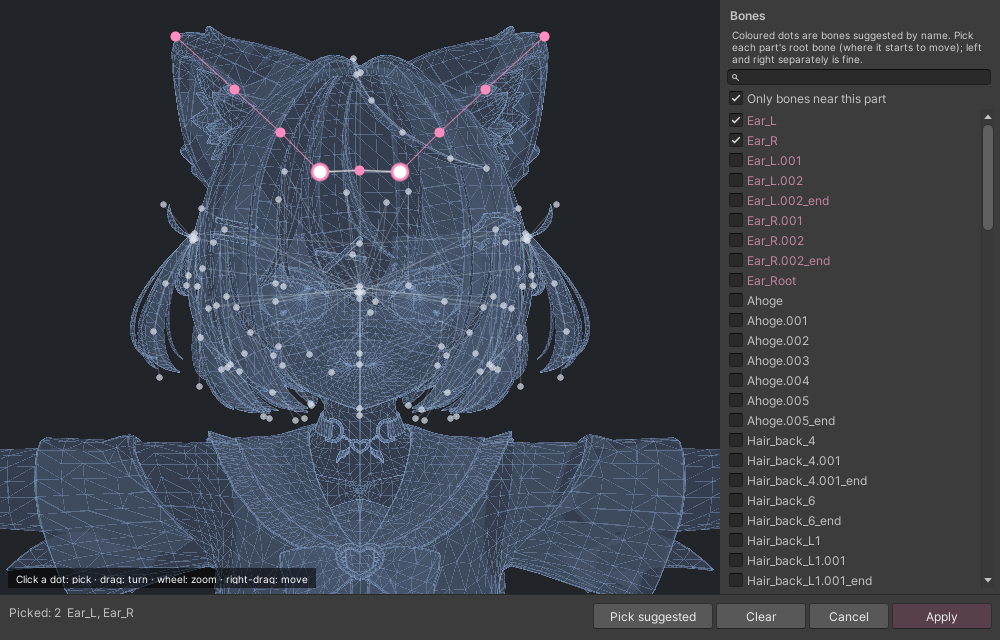
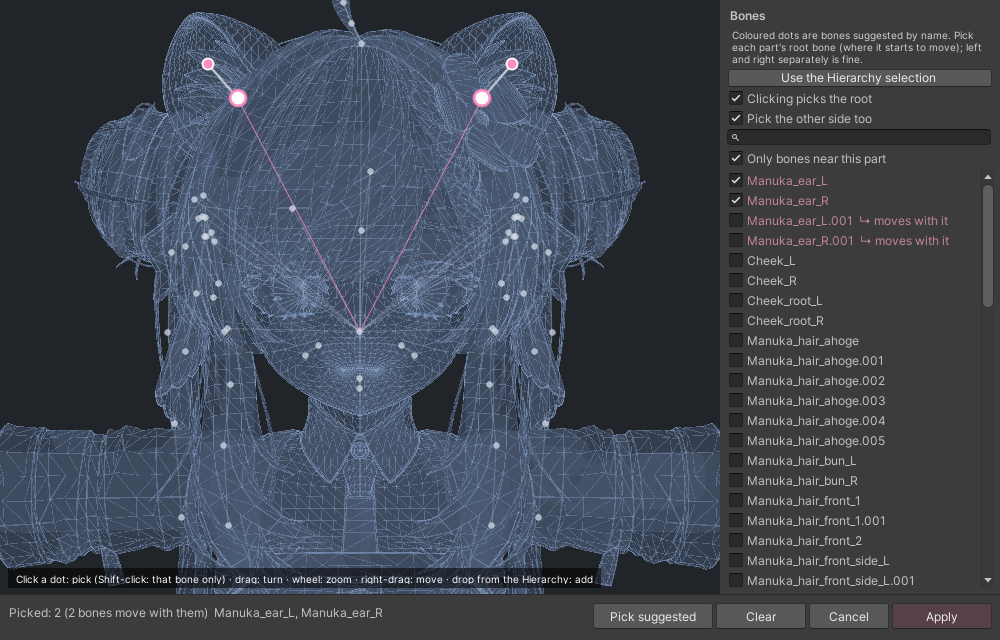
Easy Ikiiki manual: captures and text for v1.1-v1.4 features

diff --git a/easy-ikiiki/manual/index.html b/easy-ikiiki/manual/index.html
@@ -329,7 +329,7 @@
 <section id="ja-parts">
   <h2>パーツ</h2>
   <p>インスペクターの上にパーツのカードが並んでいます。<b>からだ（呼吸）</b>と<b>メニュー</b>は最初から入っていて、ほかのパーツはカードの <span class="ui">追加</span> で入れ、<span class="ui">外す</span> で外します。カードを押すと、その下にそのパーツの設定が表示されます。</p>
-  <figure><div class="shot"><img src="img/inspector_ja.png" alt="Easy Ikiiki のインスペクター" width="639" height="856" loading="lazy"></div><figcaption>パーツのカードと「目」の設定。パーツごとに色が分かれています。</figcaption></figure>
+  <figure><div class="shot"><img src="img/inspector_ja.png" alt="Easy Ikiiki のインスペクター" width="560" height="894" loading="lazy"></div><figcaption>パーツのカードと「目」の設定。パーツごとに色が分かれ、「メニュー」カードには導入済みのモジュール（ここでは「心拍」）のランプが付きます。</figcaption></figure>
   <p>カードの左下には、アバターで見つかったもの（<span class="ui">ボーン 2 個</span>、<span class="ui">シェイプあり</span> など）が表示されます。見つからないパーツも追加でき、あとで <span class="ui">ボーンを認識</span> や <span class="ui">ボーンを見ながら選ぶ</span> で指定できます。</p>
 </section>
 
@@ -342,6 +342,7 @@
     <li><span class="ui">1回の呼吸の長さ (秒)</span> と <span class="ui">速さのゆらぎ (%)</span>：呼吸の速さと、そのばらつき。</li>
     <li><span class="ui">標準の待機モーションを止める</span>（標準でオン）：Additive レイヤーを設定していないアバターは、ゲーム内で VRChat 標準の待機モーションで腕や胸が揺れます（Gesture Manager では見えません）。オンにすると、この揺れを止めて呼吸だけを残します。</li>
   </ul>
+  <figure><div class="shot"><img src="img/body_ja.png" alt="呼吸の設定" width="560" height="241" loading="lazy"></div><figcaption>「からだ」タブの呼吸の設定。<span class="ui">一緒に動く</span> に、胸と一緒に動くボーンが表示されます。</figcaption></figure>
   <h3>動くボーンを見ながら選ぶ</h3>
   <p>呼吸の設定にある <span class="ui">動くボーンを見ながら選ぶ</span> を押すと、呼吸で動くところがアバターの上にミント色で表示されます（色が濃いほど大きく動きます）。右の一覧には、胸に付いたボーン（胸・翼・飾りなど）と、動くメッシュが並びます。</p>
   <p>チェックを外すか点を押すと、そのボーン（と下のボーン）は呼吸で動かなくなります。たとえば翼が呼吸に合わせて動くのが気になるときは、翼のボーンを外してください。変更はすぐにコンポーネントに保存され、Ctrl+Z で戻せます。</p>
@@ -373,8 +374,17 @@
   <ul>
     <li>ボーンは名前（ear・耳・tail・しっぽ・wing・羽 など）で自動で見つかります。衣装やヘアで後から足した耳・しっぽも、Modular Avatar で付く場所を考えて探します。</li>
     <li>見つからない・違う場合は <span class="ui">ボーンを認識</span>（もう一度探して決める）か <span class="ui">ボーンを見ながら選ぶ</span> を使ってください。</li>
+    <li><b>別に付けている耳・羽・しっぽ</b>（アクセサリーや衣装）は、そのオブジェクト（またはボーン）を Hierarchy から <span class="ui">ボーンを認識</span> の下の枠にドラッグ＆ドロップするか、Hierarchy で選んで <span class="ui">Hierarchy で選んだもので指定</span> を押すと、その中の耳・羽・しっぽのボーンが登録されます。体の中心にあるボーンを入れると、左右に分けて登録します。</li>
     <li><span class="ui">アバター標準の耳・しっぽ・翼の動きを止める</span>（標準でオン）：アバター自身のアニメーションが耳やしっぽを動かしている場合、その動きを外して重ならないようにします。</li>
     <li>PhysBone がある場合はビルド時に「Is Animated」を自動でオンにするので、動きに揺れが自然に加わります。</li>
+  </ul>
+  <h3>自作のアニメーション</h3>
+  <p>垂れ耳など、標準の動きが合わないときは、自分で作ったアニメーションクリップを入れられます。耳・しっぽ・翼のタブにある <span class="ui">自作のアニメーション</span> の <span class="ui">+ クリップ追加</span> を押すか、クリップをその行にドロップしてください。入れたクリップは標準の動きに混ざってランダムなタイミングで再生され、強さのスライダーも効きます。</p>
+  <figure><div class="shot"><img src="img/ears_ja.png" alt="耳の設定と自作のアニメーション" width="560" height="358" loading="lazy"></div><figcaption>MANUKA の耳に、アバター付属の「Ear down」「Ear fold」を入れた例。上の枠には別に付けている耳をドロップできます。</figcaption></figure>
+  <ul>
+    <li><span class="ui">自作のアニメーションだけ使う</span>：標準の動きを使わず、入れたクリップだけをランダムに再生します。</li>
+    <li>しっぽは <span class="ui">自作アニメーションの確率</span> で、ゆらゆら 2 回ごとにクリップを再生する確率を決めます。「自作のアニメーションだけ使う」にすると、代わりに <span class="ui">間隔 (秒)</span> でクリップの間の待ち時間を決めます。</li>
+    <li>クリップは休んでいる姿勢で始まり、休んでいる姿勢で終わるように作ってください。使うのはそのパーツのボーン（とその下のボーン）の回転・位置だけで、ほかを動かすカーブは使いません。左右の耳を一緒に動かすクリップは左右に分けて、それぞれのタイミングで再生します。</li>
   </ul>
 </section>
 
@@ -382,9 +392,16 @@
   <h2>見ながら選ぶ</h2>
   <h3>ボーンを見ながら選ぶ</h3>
   <p>アバターのワイヤーフレームの上にボーンが点で表示されます。おすすめのボーンはパーツの色、選んだボーンは白で表示され、クリックで選択・解除します。右のリストでは名前で検索できます。<span class="ui">適用</span> で決定します。</p>
-  <figure><div class="shot"><img src="img/bonepicker_ja.png" alt="ボーンを見ながら選ぶウィンドウ" width="1000" height="640" loading="lazy"></div></figure>
+  <ul>
+    <li><span class="ui">クリックで根元のボーンを選ぶ</span>：耳や翼のどこをクリックしても、その根元のボーンが選ばれます。クリックしたボーンそのものを選ぶときは Shift+クリック。</li>
+    <li><span class="ui">反対側も一緒に選ぶ</span>：左を選ぶと右も一緒に選ばれます（しっぽにはありません）。</li>
+    <li>選んだボーンと一緒に動く下のボーンは、白い縁の点と太い白線で表示され、リストに <span class="ui">↳ 一緒に動く</span> と出ます。下の行に選んだ数と一緒に動くボーンの数が出るので、うまく選べたか確かめられます。</li>
+    <li>Hierarchy からオブジェクトやボーンをウィンドウにドロップするか、<span class="ui">Hierarchy で選んだもので指定</span> を押しても選べます。</li>
+  </ul>
+  <figure><div class="shot"><img src="img/bonepicker_ja.png" alt="ボーンを見ながら選ぶウィンドウ" width="1000" height="640" loading="lazy"></div><figcaption>MANUKA の耳。根元の Manuka_ear_L / R を選ぶと、先の .001 が「一緒に動く」と表示されます。</figcaption></figure>
   <h3>シェイプを見ながら選ぶ</h3>
   <p>上の枠（視線のゆらぎ・瞳のうるうる・自然なまばたき・表情）を選び、顔のサムネイルから選びます。マウスを乗せると、左の大きなプレビューでそのシェイプが動きます。<span class="ui">すべて表示</span> で候補以外のシェイプも表示できます。<span class="ui">適用</span> で全部の枠をまとめて保存し、何も選ばなかった枠は自動のままです。</p>
+  <p>見回すシェイプがなく目のボーンがあるアバター（マロンなど）は、視線の枠に <span class="ui">自動: 目のボーンで動かす</span> と表示され、目のボーンで視線を動かします。</p>
   <figure><div class="shot"><img src="img/shapepicker_ja.png" alt="シェイプを見ながら選ぶウィンドウ" width="1100" height="720" loading="lazy"></div></figure>
 </section>
 
@@ -406,6 +423,9 @@
     <li><span class="ui">機能ごとの ON/OFF を追加</span>：オフにすると全体の ON/OFF だけになり、同期パラメータは 1 bit になります。</li>
     <li><span class="ui">同期パラメータ</span>：使う bit 数（最大 7 bit）が表示されます。</li>
   </ul>
+  <h3>マニュアルを開く</h3>
+  <p>「メニュー」タブの下のほうにある <span class="ui">マニュアルを開く</span> を押すと、インスペクターの言語（日本語 / 한국어 / English）でこのマニュアルがブラウザで開きます。その下の <span class="ui">お問い合わせのとき</span> からは診断情報を送れます（<a href="#ja-info">うまく動かないとき</a>）。</p>
+  <figure><div class="shot"><img src="img/menu_manual_ja.png" alt="マニュアルとお問い合わせ" width="560" height="246" loading="lazy"></div><figcaption>「メニュー」タブの下のほう。</figcaption></figure>
 </section>
 
 <section id="ja-modules">
@@ -552,7 +572,7 @@
 <section id="ko-parts">
   <h2>부위</h2>
   <p>인스펙터 위쪽에 부위 카드가 있어요. <b>몸(숨쉬기)</b>과 <b>메뉴</b>는 기본으로 들어 있고, 다른 부위는 카드의 <span class="ui">추가</span>로 넣고 <span class="ui">제거</span>로 빼요. 카드를 누르면 그 아래에 해당 부위의 설정이 나와요.</p>
-  <figure><div class="shot"><img src="img/inspector_ko.png" alt="Easy Ikiiki 인스펙터" width="639" height="856" loading="lazy"></div><figcaption>부위 카드와 "눈" 설정. 부위마다 색이 달라요.</figcaption></figure>
+  <figure><div class="shot"><img src="img/inspector_ko.png" alt="Easy Ikiiki 인스펙터" width="560" height="894" loading="lazy"></div><figcaption>부위 카드와 "눈" 설정. 부위마다 색이 다르고, "메뉴" 카드에는 들어 있는 모듈(여기서는 "심박")의 불이 붙어요.</figcaption></figure>
   <p>카드 왼쪽 아래에는 아바타에서 찾은 것(<span class="ui">본 2개</span>, <span class="ui">셰이프 있음</span> 등)이 표시돼요. 찾지 못한 부위도 추가할 수 있고, 나중에 <span class="ui">본 인식하기</span>나 <span class="ui">본 보면서 고르기</span>로 지정하면 돼요.</p>
 </section>
 
@@ -565,6 +585,7 @@
     <li><span class="ui">한 번 숨쉬는 시간 (초)</span>와 <span class="ui">속도 흔들림 (%)</span>: 숨 쉬는 속도와 그 흔들림.</li>
     <li><span class="ui">기본 대기 움직임 끄기</span> (기본 켜짐): Additive 레이어를 따로 설정하지 않은 아바타는 게임 안에서 VRChat 기본 대기 애니메이션 때문에 팔과 가슴이 흔들려요 (Gesture Manager에서는 안 보여요). 켜 두면 이 흔들림을 없애고 숨쉬기만 남겨요.</li>
   </ul>
+  <figure><div class="shot"><img src="img/body_ko.png" alt="숨쉬기 설정" width="560" height="241" loading="lazy"></div><figcaption>"몸" 탭의 숨쉬기 설정. <span class="ui">같이 움직임</span>에 가슴과 같이 움직이는 본이 나와요.</figcaption></figure>
   <h3>움직이는 본 보면서 고르기</h3>
   <p>숨쉬기 설정의 <span class="ui">움직이는 본 보면서 고르기</span>를 누르면, 숨쉴 때 움직이는 곳이 아바타 위에 민트색으로 보여요(색이 진할수록 많이 움직여요). 오른쪽 목록에는 가슴에 붙은 본(가슴·날개·장식 등)과 움직이는 메쉬가 나와요.</p>
   <p>체크를 끄거나 점을 누르면 그 본(과 아래 본)은 숨쉴 때 가만히 있어요. 예를 들어 날개가 숨쉬기를 따라 움직이는 게 싫으면 날개 본을 끄면 돼요. 바꾼 내용은 바로 컴포넌트에 저장되고, Ctrl+Z로 되돌릴 수 있어요.</p>
@@ -596,8 +617,17 @@
   <ul>
     <li>본은 이름(ear·耳·tail·しっぽ·wing·羽 등)으로 자동으로 찾아요. 의상이나 헤어로 나중에 붙인 귀·꼬리도 Modular Avatar로 붙는 위치를 생각해서 찾아요.</li>
     <li>못 찾거나 틀리면 <span class="ui">본 인식하기</span>(다시 찾아서 정하기)나 <span class="ui">본 보면서 고르기</span>를 써 주세요.</li>
+    <li><b>따로 쓰는 귀·날개·꼬리</b>(액세서리나 의상)는 그 오브젝트(또는 본)를 Hierarchy에서 <span class="ui">본 인식하기</span> 아래 칸에 끌어다 놓거나, Hierarchy에서 고른 뒤 <span class="ui">Hierarchy에서 고른 걸로 지정</span>을 누르면 그 안의 귀·날개·꼬리 본이 등록돼요. 몸 가운데에 있는 본을 넣으면 왼쪽·오른쪽으로 나눠서 등록해요.</li>
     <li><span class="ui">아바타 기본 귀·꼬리·날개 움직임 끄기</span> (기본 켜짐): 아바타 자체 애니메이션이 귀나 꼬리를 움직이면, 그 움직임을 빼서 겹치지 않게 해요.</li>
     <li>PhysBone이 있으면 빌드할 때 "Is Animated"를 자동으로 켜서, 움직임 위에 흔들림이 자연스럽게 더해져요.</li>
+  </ul>
+  <h3>내가 만든 애니메이션</h3>
+  <p>처진 귀처럼 기본 움직임이 어울리지 않을 때는 직접 만든 애니메이션 클립을 넣을 수 있어요. 귀·꼬리·날개 탭의 <span class="ui">내가 만든 애니메이션</span>에서 <span class="ui">+ 클립 추가</span>를 누르거나, 클립을 그 줄에 끌어다 놓으세요. 넣은 클립은 기본 움직임과 섞여서 랜덤한 타이밍에 재생되고, 강도 슬라이더도 적용돼요.</p>
+  <figure><div class="shot"><img src="img/ears_ko.png" alt="귀 설정과 내가 만든 애니메이션" width="560" height="358" loading="lazy"></div><figcaption>MANUKA 귀에 아바타에 들어 있는 "Ear down", "Ear fold"를 넣은 예. 위쪽 칸에는 따로 쓰는 귀를 끌어다 놓을 수 있어요.</figcaption></figure>
+  <ul>
+    <li><span class="ui">내 애니메이션만 쓰기</span>: 기본 움직임은 쓰지 않고 넣은 클립만 랜덤으로 재생해요.</li>
+    <li>꼬리는 <span class="ui">내 애니메이션 확률</span>로, 살랑 두 번마다 클립을 재생할 확률을 정해요. "내 애니메이션만 쓰기"를 켜면 대신 <span class="ui">간격 (초)</span>으로 클립 사이에 쉬는 시간을 정해요.</li>
+    <li>클립은 쉬는 자세에서 시작해서 쉬는 자세로 끝나게 만들어 주세요. 그 부위의 본(과 그 아래 본)의 회전·위치만 쓰고, 다른 곳을 움직이는 커브는 쓰지 않아요. 양쪽 귀를 같이 움직이는 클립은 왼쪽·오른쪽으로 나눠서 각자 다른 타이밍에 재생해요.</li>
   </ul>
 </section>
 
@@ -605,9 +635,16 @@
   <h2>보면서 고르기</h2>
   <h3>본 보면서 고르기</h3>
   <p>아바타 와이어프레임 위에 본이 점으로 표시돼요. 추천 본은 부위 색, 고른 본은 흰색이고 클릭으로 고르거나 뺄 수 있어요. 오른쪽 목록에서 이름으로 검색할 수도 있어요. <span class="ui">적용</span>을 누르면 정해져요.</p>
-  <figure><div class="shot"><img src="img/bonepicker_ko.png" alt="본 보면서 고르기 창" width="1000" height="640" loading="lazy"></div></figure>
+  <ul>
+    <li><span class="ui">클릭하면 뿌리 본 고르기</span>: 귀나 날개의 어디를 클릭해도 그 뿌리 본이 골라져요. 클릭한 본 자체를 고르려면 Shift+클릭.</li>
+    <li><span class="ui">반대쪽도 같이 고르기</span>: 왼쪽을 고르면 오른쪽도 같이 골라져요 (꼬리에는 없어요).</li>
+    <li>고른 본과 같이 움직이는 아래 본은 흰 테두리 점과 굵은 흰 선으로 보이고, 목록에 <span class="ui">↳ 같이 움직임</span>이라고 나와요. 아래 줄에 고른 개수와 같이 움직이는 본 개수가 나와서, 잘 골랐는지 확인할 수 있어요.</li>
+    <li>Hierarchy에서 오브젝트나 본을 창에 끌어다 놓거나, <span class="ui">Hierarchy에서 고른 걸로 지정</span>을 눌러도 골라져요.</li>
+  </ul>
+  <figure><div class="shot"><img src="img/bonepicker_ko.png" alt="본 보면서 고르기 창" width="1000" height="640" loading="lazy"></div><figcaption>MANUKA의 귀. 뿌리인 Manuka_ear_L / R을 고르면 끝의 .001이 "같이 움직임"으로 표시돼요.</figcaption></figure>
   <h3>셰이프 보면서 고르기</h3>
   <p>위쪽 칸(시선 흔들림·눈 반짝임·자연 깜빡임·표정)을 고르고 얼굴 썸네일에서 골라요. 마우스를 올리면 왼쪽 큰 미리보기에서 그 셰이프가 움직여요. <span class="ui">모든 셰이프 보기</span>로 후보가 아닌 셰이프도 볼 수 있어요. <span class="ui">적용</span>을 누르면 모든 칸이 한 번에 저장되고, 고르지 않은 칸은 자동 그대로예요.</p>
+  <p>둘러보는 셰이프가 없고 눈 본이 있는 아바타(마론 등)는 시선 칸에 <span class="ui">자동: 눈 본으로 움직임</span>이라고 나오고, 눈 본으로 시선을 움직여요.</p>
   <figure><div class="shot"><img src="img/shapepicker_ko.png" alt="셰이프 보면서 고르기 창" width="1100" height="720" loading="lazy"></div></figure>
 </section>
 
@@ -629,6 +666,9 @@
     <li><span class="ui">기능별 ON/OFF 넣기</span>: 끄면 전체 ON/OFF만 남고 동기화 파라미터가 1 bit가 돼요.</li>
     <li><span class="ui">동기화 파라미터</span>: 쓰는 bit 수(최대 7 bit)가 표시돼요.</li>
   </ul>
+  <h3>설명서 열기</h3>
+  <p>"메뉴" 탭 아래쪽의 <span class="ui">설명서 열기</span>를 누르면 인스펙터 언어(日本語 / 한국어 / English)로 이 설명서가 브라우저에서 열려요. 그 아래 <span class="ui">문의할 때</span>에서는 진단 정보를 보낼 수 있어요(<a href="#ko-info">잘 안 될 때</a>).</p>
+  <figure><div class="shot"><img src="img/menu_manual_ko.png" alt="설명서와 문의" width="560" height="246" loading="lazy"></div><figcaption>"메뉴" 탭 아래쪽.</figcaption></figure>
 </section>
 
 <section id="ko-modules">
@@ -775,7 +815,7 @@
 <section id="en-parts">
   <h2>Parts</h2>
   <p>The inspector starts with a row of part cards. <b>Body (breathing)</b> and <b>Menu</b> are always in; add other parts with <span class="ui">Add</span> on their card and take them out with <span class="ui">Remove</span>. Clicking a card shows that part's settings below.</p>
-  <figure><div class="shot"><img src="img/inspector_en.png" alt="The Easy Ikiiki inspector" width="639" height="856" loading="lazy"></div><figcaption>Part cards and the Eyes settings. Each part has its own colour.</figcaption></figure>
+  <figure><div class="shot"><img src="img/inspector_en.png" alt="The Easy Ikiiki inspector" width="560" height="905" loading="lazy"></div><figcaption>Part cards and the Eyes settings. Each part has its own colour, and the Menu card carries a light for each installed module (here "Heart rate").</figcaption></figure>
   <p>The bottom left of each card shows what was found on the avatar (<span class="ui">2 bone(s)</span>, <span class="ui">shapes found</span> and so on). Parts that weren't found can still be added; set them later with <span class="ui">Detect bones</span> or <span class="ui">Pick by eye</span>.</p>
 </section>
 
@@ -788,6 +828,7 @@
     <li><span class="ui">Seconds per breath</span> and <span class="ui">Pace variation (%)</span>: the pace and how much it wanders.</li>
     <li><span class="ui">Turn off the default idle sway</span> (on by default): avatars without their own Additive layer get VRChat's default idle in game, which sways the arms and chest (Gesture Manager doesn't show it). This stops it so only the breathing remains.</li>
   </ul>
+  <figure><div class="shot"><img src="img/body_en.png" alt="The breathing settings" width="560" height="241" loading="lazy"></div><figcaption>The breathing settings on the Body tab. <span class="ui">Moves along</span> lists the bones that move with the chest.</figcaption></figure>
   <h3>Pick moving bones by eye</h3>
   <p>Press <span class="ui">Pick moving bones by eye</span> in the breathing settings to see what breathing moves, coloured mint on the avatar (the deeper the colour, the more it moves). The list on the right shows the bones on the chest (breasts, wings, accessories) and the meshes that move.</p>
   <p>Untick a bone or click its dot and it (with the bones under it) stays still while breathing. If the wings riding along with each breath bother you, for example, untick the wing bone. Changes are saved to the component right away and can be undone with Ctrl+Z.</p>
@@ -819,8 +860,17 @@
   <ul>
     <li>Bones are found by name (ear, 耳, tail, しっぽ, wing, 羽 and so on), including ears and tails added later with outfits or hair, where Modular Avatar will put them.</li>
     <li>If they're missing or wrong, use <span class="ui">Detect bones</span> (search again and keep the result) or <span class="ui">Pick by eye</span>.</li>
+    <li><b>Ears, wings or a tail you wear separately</b> (an accessory or outfit): drop the object (or its bones) from the Hierarchy onto the box under <span class="ui">Detect bones</span>, or select it in the Hierarchy and press <span class="ui">Use the Hierarchy selection</span>, and the ear, wing or tail bones inside it are set. A bone on the middle of the body is split into its left and right sides.</li>
     <li><span class="ui">Turn off the avatar's own ear, tail and wing motion</span> (on by default): if the avatar's own animations move its ears or tail, that motion is taken off so the two don't stack.</li>
     <li>With PhysBones on them, the build turns on "Is Animated", so the physics adds natural follow-through.</li>
+  </ul>
+  <h3>Your own animations</h3>
+  <p>When the built-in moves don't suit, say on droopy ears, add animation clips you made. On the Ears, Tail and Wings tabs, press <span class="ui">+ Add clip</span> under <span class="ui">Your own animations</span>, or drop clips on that row. Your clips mix in with the built-in moves at random times, and the strength slider applies to them too.</p>
+  <figure><div class="shot"><img src="img/ears_en.png" alt="The ear settings with your own animations" width="560" height="358" loading="lazy"></div><figcaption>MANUKA's ears with the avatar's own "Ear down" and "Ear fold" clips. Ears you wear separately can be dropped on the box above.</figcaption></figure>
+  <ul>
+    <li><span class="ui">Use only my animations</span>: the built-in moves are left out and only your clips play, at random.</li>
+    <li>For the tail, <span class="ui">Own animation chance</span> sets how likely one of your clips plays after every two sways. With "Use only my animations" on, <span class="ui">Interval (s)</span> sets the wait between clips instead.</li>
+    <li>Start and end each clip in the resting pose. Only rotation and position of that part's bones (and the bones under them) are used; other curves in the clip are left out. A clip that moves both ears is split, and each side plays on its own timing.</li>
   </ul>
 </section>
 
@@ -828,9 +878,16 @@
   <h2>Pick by eye</h2>
   <h3>Pick bones by eye</h3>
   <p>Bones show as dots on a wireframe of your avatar: suggested ones in the part's colour, picked ones in white. Click to pick or drop a bone, or search by name in the list. <span class="ui">Apply</span> keeps the choice.</p>
-  <figure><div class="shot"><img src="img/bonepicker_en.png" alt="The bone picker window" width="1000" height="640" loading="lazy"></div></figure>
+  <ul>
+    <li><span class="ui">Clicking picks the root</span>: click anywhere on an ear or wing and its root bone is picked. Shift-click picks exactly the bone you clicked.</li>
+    <li><span class="ui">Pick the other side too</span>: picking the left one picks the right one as well (not for the tail).</li>
+    <li>Bones that move with your picks show as white-ringed dots joined by thick white lines, marked <span class="ui">↳ moves with it</span> in the list. The bottom line counts your picks and the bones that move with them, so you can tell the choice is right.</li>
+    <li>You can also drop objects or bones from the Hierarchy onto the window, or press <span class="ui">Use the Hierarchy selection</span>.</li>
+  </ul>
+  <figure><div class="shot"><img src="img/bonepicker_en.png" alt="The bone picker window" width="1000" height="640" loading="lazy"></div><figcaption>MANUKA's ears. With the roots Manuka_ear_L / R picked, the .001 bones beyond them show as moving with them.</figcaption></figure>
   <h3>Pick shapes by eye</h3>
   <p>Choose a slot at the top (gaze drift, eye sparkle, natural blink, face) and pick from face thumbnails. Hover one and it moves on the large preview. <span class="ui">Show all shapes</span> lists shapes beyond the suggestions. <span class="ui">Apply</span> saves every slot at once; slots you left alone stay automatic.</p>
+  <p>Avatars with eye bones but no look shapes (Marron, for example) show <span class="ui">Auto: eye bones</span> in the gaze slots, and the gaze moves the eye bones.</p>
   <figure><div class="shot"><img src="img/shapepicker_en.png" alt="The shape picker window" width="1100" height="720" loading="lazy"></div></figure>
 </section>
 
@@ -852,6 +909,9 @@
     <li><span class="ui">Per-feature toggles</span>: off leaves only the overall ON/OFF, using 1 synced bit.</li>
     <li><span class="ui">Synced parameters</span>: shows the bits used (up to 7).</li>
   </ul>
+  <h3>Opening this manual</h3>
+  <p>Press <span class="ui">Open the manual</span> near the bottom of the Menu tab to open this manual in your browser, in the inspector's language (日本語 / 한국어 / English). Below it, <span class="ui">Asking for help</span> sends diagnostics (<a href="#en-info">if something doesn't work</a>).</p>
+  <figure><div class="shot"><img src="img/menu_manual_en.png" alt="The manual and help" width="560" height="271" loading="lazy"></div><figcaption>Near the bottom of the Menu tab.</figcaption></figure>
 </section>
 
 <section id="en-modules">
